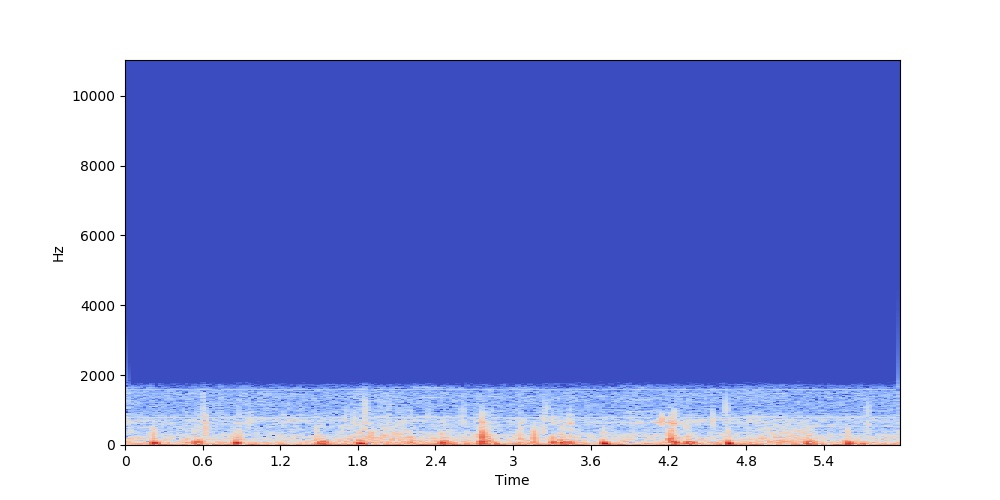
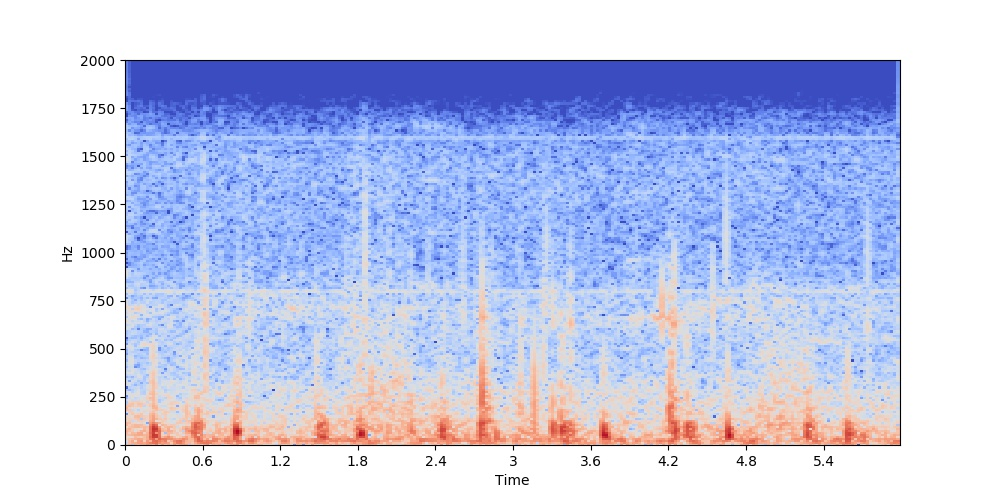
topped frequency at 2000 hz

diff --git a/heartbeat_modified/image_gen.py b/heartbeat_modified/image_gen.py
@@ -52,6 +52,7 @@ def gen_spectograms(data, path):
         X = librosa.stft(data[i][1])
         Xb = librosa.amplitude_to_db(abs(X))
         librosa.display.specshow(Xb,sr=data[i][2],x_axis='time',y_axis='hz')
+        plt.ylim(0,2000)
         plt.savefig("./spectograms/"+data[i][0].replace('.wav','.jpg'))
         plt.close()
 
